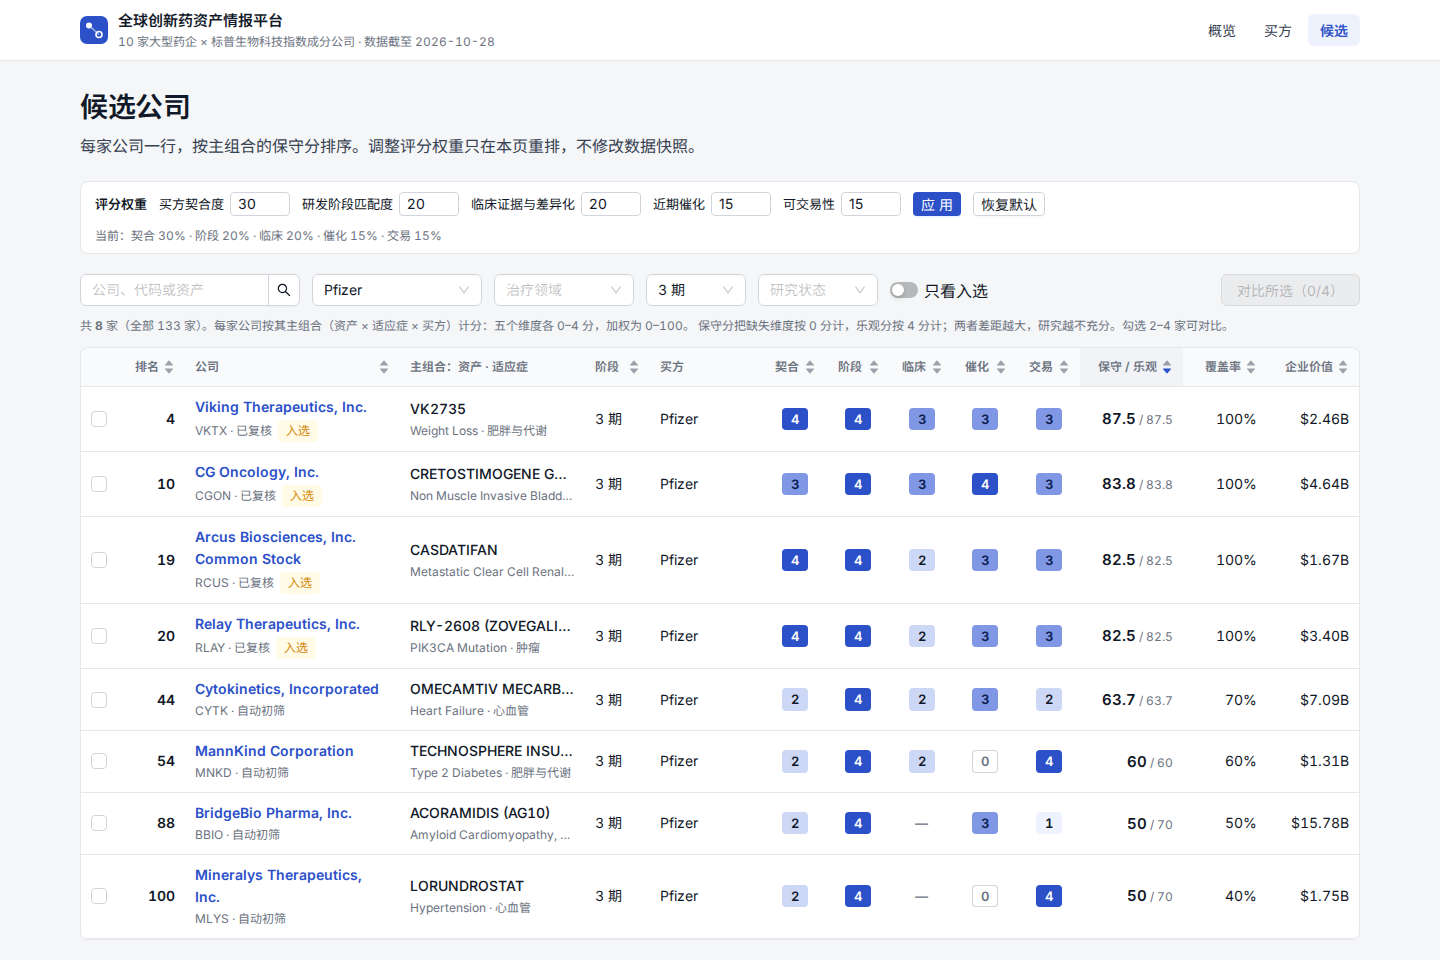
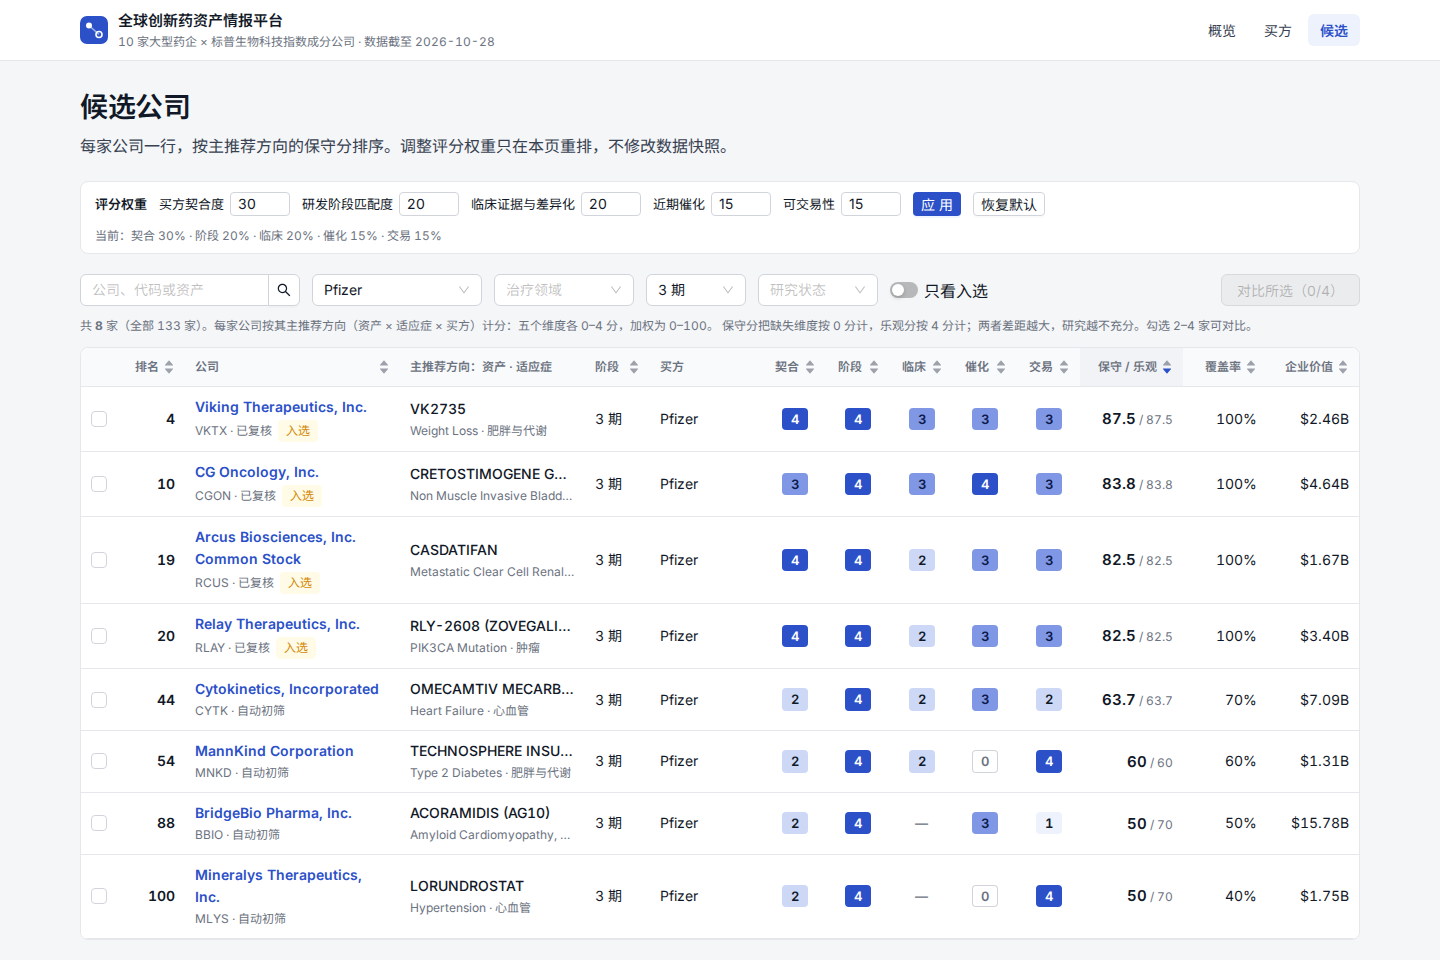
web, docs: rename 组合 to 推荐方向 and spell out asset × indication × buyer
Claude-Session: https://claude.ai/code/session_01HkPvGRTAerm7dKeWUgGh96

Changed region(s): [[0.2188, 0.3125, 0.875, 0.3438], [0.1562, 0.125, 0.5, 0.1562], [0.2812, 0.375, 0.375, 0.4062]]

diff --git a/web/src/pages/TargetDetail.tsx b/web/src/pages/TargetDetail.tsx
@@ -18,6 +18,9 @@ const REVIEW_FIELDS: [keyof Recommendation, string][] = [
   ['funding_flag', '资金状况'],
 ]
 
+// One recommendation direction: asset × indication × buyer.
+const direction = (r: Recommendation) => `${r.asset ?? '—'} × ${r.indication ?? '—'} × ${r.buyer ?? '—'}`
+
 // Key facts beside the thesis: the numbers a reader checks first.
 function Facts({ r }: { r: Recommendation }) {
   const s = r.sources
@@ -132,7 +135,7 @@ function View({ d }: { d: Detail }) {
             {t.excluded && <Tag color="red">已排除</Tag>}
             {primary && (
               <span>
-                主组合保守分 <b className="figure" style={{ color: 'var(--ink)' }}>{primary.conservative}</b> / 乐观分 {primary.optimistic} ·
+                主推荐方向：保守分 <b className="figure" style={{ color: 'var(--ink)' }}>{primary.conservative}</b> / 乐观分 {primary.optimistic} ·
                 覆盖率 {Math.round(primary.coverage * 100)}% · {label(RESEARCH_STATUS, primary.research_status)}
               </span>
             )}
@@ -150,15 +153,21 @@ function View({ d }: { d: Detail }) {
       )}
 
       {primary && (
-        <Card size="small" title={primary.is_primary ? '主组合复核结论' : '组合'}>
+        <Card size="small" title={`${primary.is_primary ? '主推荐方向' : '推荐方向'}：${direction(primary)}`}>
+          <p className="note">推荐方向 = 资产 × 适应症 × 买方。公司的分数与排名按主推荐方向计算。</p>
           <RecommendationView r={primary} />
           {others.length > 0 && (
-            <Collapse style={{ marginTop: 12 }} size="small"
-              items={others.map((r, i) => ({
-                key: i,
-                label: `其他组合：${r.asset ?? '—'} · ${r.indication ?? '—'} · ${r.buyer ?? '—'}（保守分 ${r.conservative}）`,
-                children: <RecommendationView r={r} />,
-              }))} />
+            <div style={{ marginTop: 24 }}>
+              <b style={{ fontSize: 15 }}>其他可能方向</b>
+              <span className="sub" style={{ marginLeft: 10 }}>不计入公司分数；点开查看各自的评分与依据</span>
+              <Collapse style={{ marginTop: 10 }} size="small"
+                items={others.map((r, i) => ({
+                  key: i,
+                  label: direction(r),
+                  extra: <span className="sub">保守分 <b className="figure" style={{ color: 'var(--ink)' }}>{r.conservative}</b></span>,
+                  children: <RecommendationView r={r} />,
+                }))} />
+            </div>
           )}
         </Card>
       )}

diff --git a/web/src/pages/Targets.tsx b/web/src/pages/Targets.tsx
@@ -73,7 +73,7 @@ function List({ items }: { items: ShortlistItem[] }) {
         </Button>
       </div>
       <p className="note">
-        共 <b>{rows.length}</b> 家（全部 {items.length} 家）。每家公司按其主组合（资产 × 适应症 × 买方）计分：五个维度各 0–4 分，加权为 0–100。
+        共 <b>{rows.length}</b> 家（全部 {items.length} 家）。每家公司按其主推荐方向（资产 × 适应症 × 买方）计分：五个维度各 0–4 分，加权为 0–100。
         保守分把缺失维度按 0 分计，乐观分按 4 分计；两者差距越大，研究越不充分。勾选 2–4 家可对比。
       </p>
       <Table
@@ -107,7 +107,7 @@ function List({ items }: { items: ShortlistItem[] }) {
             ),
           },
           {
-            title: '主组合：资产 · 适应症',
+            title: '主推荐方向：资产 · 适应症',
             width: 180,
             render: (_, r) => (
               <div style={{ display: 'grid', gap: 2, minWidth: 0 }}>
@@ -161,7 +161,7 @@ export default function Targets() {
     <>
       <PageHead
         title="候选公司"
-        lead="每家公司一行，按主组合的保守分排序。调整评分权重只在本页重排，不修改数据快照。"
+        lead="每家公司一行，按主推荐方向的保守分排序。调整评分权重只在本页重排，不修改数据快照。"
       />
       <div className="toolbar" style={{ padding: '10px 14px', background: 'var(--panel)', border: '1px solid var(--line)', borderRadius: 8, marginBottom: 20 }}>
         <b style={{ fontSize: 13 }}>评分权重</b>

diff --git a/web/src/pages/Buyers.tsx b/web/src/pages/Buyers.tsx
@@ -34,10 +34,10 @@ export default function Buyers() {
               { title: '代码', dataIndex: 'ticker', width: 90 },
               { title: '偏好条目', dataIndex: 'preferences', align: 'right', width: 110, render: (v) => <span className="figure">{v}</span> },
               {
-                title: '以其为主组合买方的候选公司',
+                title: '主推荐方向指向该买方的候选公司',
                 dataIndex: 'primary_targets',
                 align: 'right',
-                width: 220,
+                width: 240,
                 render: (v, b) => (
                   <Link to={`/targets?buyer=${b.ticker}`} className="figure">
                     {v}

diff --git a/web/src/pages/Compare.tsx b/web/src/pages/Compare.tsx
@@ -34,7 +34,7 @@ export default function Compare() {
   const state = useApi(() => fetchShortlist(), [])
   return (
     <>
-      <PageHead title="公司对比" lead="按默认权重比较各公司的主组合。本页链接可直接分享。" />
+      <PageHead title="公司对比" lead="按默认权重比较各公司的主推荐方向（资产 × 适应症 × 买方）。本页链接可直接分享。" />
       <Loaded state={state}>
         {(s) => {
           const items = tickers.map((t) => s.items.find((i) => i.ticker === t))

diff --git a/web/src/pages/BuyerDetail.tsx b/web/src/pages/BuyerDetail.tsx
@@ -27,7 +27,7 @@ function View({ d }: { d: Detail }) {
           <>
             <span>{b.name}</span>
             <span>画像置信度 {label(CONFIDENCE, b.confidence)}</span>
-            <Link to={`/targets?buyer=${b.ticker}`}>查看以其为主组合买方的候选公司 →</Link>
+            <Link to={`/targets?buyer=${b.ticker}`}>查看主推荐方向指向该买方的候选公司 →</Link>
           </>
         }
       />

diff --git a/web/src/pages/Overview.tsx b/web/src/pages/Overview.tsx
@@ -20,7 +20,7 @@ const ENTITY_LABELS: Record<string, string> = {
   financial_snapshot: '财务快照',
   approved_product: '获批产品',
   match: '买方×标的匹配',
-  recommendation: '资产×适应症×买方组合',
+  recommendation: '推荐方向（资产×适应症×买方）',
 }
 
 const ROUTE: [string, string, string][] = [

diff --git a/docs/scoring-rules.md b/docs/scoring-rules.md
@@ -13,12 +13,12 @@
 | 4 | 下一个重要事件是什么？ | 下一关键事件 | 近期催化 |
 | 5 | 交易有什么障碍？ | 交易障碍 | 可交易性（成本计分；权益为门槛；资金为提示） |
 
-## 2. 评分对象：推荐组合
+## 2. 评分对象：推荐方向
 
-- **推荐组合** = （公司，主推荐资产，适应症，主要买方）。五个维度全部针对同一个推荐组合打分。
-- 每家公司只取一个主组合。**公司分 = 主组合的分数。** 其他资产、其他买方的组合列在详情页，不计入公司分。这样不会出现"契合度看资产 A、证据看资产 B"拼出的高分。
+- **推荐方向** = （公司，主推荐资产，适应症，主要买方），即「资产 × 适应症 × 买方」。代码与技术规格中称 recommendation（旧称「推荐组合」）。五个维度全部针对同一个推荐方向打分。
+- 每家公司只取一个主推荐方向。**公司分 = 主推荐方向的分数。** 其他资产、其他买方的推荐方向列在详情页，不计入公司分。这样不会出现"契合度看资产 A、证据看资产 B"拼出的高分。
 - **资产**：同一药物在 CT.gov 推导管线中合并后的一条（代号、通用名、商品名视为同一资产）。**适应症**：该资产研发阶段最高的适应症；复核时可以改选，必须写理由。
-- **主组合的选择**：在候选组合中取保守分（第 4 节）最高的一个；同分时取证据覆盖率高的。复核时分析人员可以改选，必须写理由。
+- **主推荐方向的选择**：在候选方向中取保守分（第 4 节）最高的一个；同分时取证据覆盖率高的。复核时分析人员可以改选，必须写理由。
 
 ## 3. 五个维度的刻度
 
@@ -57,7 +57,7 @@
 
 ### 3.3 临床证据与差异化（20%）
 
-每个推荐组合都记录四项：**研究设计、可比性、结果、局限**。四项都写进详情页，分数按下表：
+每个推荐方向都记录四项：**研究设计、可比性、结果、局限**。四项都写进详情页，分数按下表：
 
 | 分 | 要求 |
 |---|---|
@@ -150,7 +150,7 @@
 | 状态 | 含义 |
 |---|---|
 | 自动初筛 | 只有程序从结构化数据算出的分数 |
-| 已复核 | 人工（Claude 辅助）确认了推荐组合、必需字段与来源 |
+| 已复核 | 人工（Claude 辅助）确认了推荐方向、必需字段与来源 |
 | 深度研究 | 变更 F 的 3–5 家，临床数据、催化事件、收购成本全部人工核对 |
 
 **缺失值**：没有来源的字段显示「待核实」，不填估算值。它在保守分里按 0 计，在乐观分里按 4 计。
@@ -158,8 +158,8 @@
 ## 5. 排序与入选流程
 
 1. **初筛（133 家，自动）**：按**乐观分**排序，取前 40 家左右进入复核。乐观分决定"值得研究"，避免信息少的公司在研究前就被淘汰。
-   - 人工加入：`config/scoring.toml` 的 `longlist_extra` 列出的公司也进入复核。用于主组合按保守分选中已上市产品、乐观分因此下降的公司（当前：IONS、VNDA）。已复核的公司始终留在复核池。
-2. **复核（约 40 家）**：确定推荐组合，补齐必需字段，核对资产权益，写推荐逻辑（第 7 节）。
+   - 人工加入：`config/scoring.toml` 的 `longlist_extra` 列出的公司也进入复核。用于主推荐方向按保守分选中已上市产品、乐观分因此下降的公司（当前：IONS、VNDA）。已复核的公司始终留在复核池。
+2. **复核（约 40 家）**：确定推荐方向，补齐必需字段，核对资产权益，写推荐逻辑（第 7 节）。
 3. **入选名单（20–30 家）**：按**保守分**排序。入选条件：
    - 研究状态为「已复核」或「深度研究」；
    - 资产权益不是「待核实」，也不是与推荐交易形式不兼容的「受限」；
@@ -223,7 +223,7 @@
 
 - 每个单元格都可以跳到它的声明与来源。
 - 「待核实」显示为标签，不显示为空白。
-- 详情页显示五个维度的分数与理由、其他组合、缺口清单。
+- 详情页显示五个维度的分数与理由、其他方向、缺口清单。
 - 权重写在配置文件中；修改后可以重新生成排名。
 
 ## 9. 未核验的假设

diff --git a/docs/ai-log.md b/docs/ai-log.md
@@ -44,3 +44,4 @@
 | 2026-10-31 | G Web 应用样板 | Claude Code (Opus 5.5) 编写接口与页面；Playwright（无头 Chromium）走查截图 | 新增买方、公司、试验、来源只读接口，随值返回来源声明；前端改为多页面（买方画像、候选筛选与对比、公司详情、试验、来源原文并标出片段） | 13 个接口测试（合成数据 + 已提交快照中的 VKTX / RGNX）；`npm run build` 类型检查与 oxlint；按演示主线走查 6 项能力，截图存 `docs/screenshots/`，浏览器控制台无报错；来源页标出的片段与声明引用一致 | 发现：最大公司（INCY）详情约 0.9 MB，主要是管线适应症的阶段声明，已加 gzip（约 70 KB）；部分 CT.gov 推导的适应症没有治疗领域，页面显示「未归类」；无头浏览器缺中文字体，截图时临时加载本机字体，不影响用户浏览器 |
 | 2026-10-31 | G 视觉改版 | Claude Code (Opus 5.5) 改样式与布局；Playwright（无头 Chromium）1440 / 390 宽度截图检查 | 按用户评审意见：顶栏与内容对齐、候选列表合并列去掉横向滚动、改为投研报告风（衬线标题、细线分节、0–4 分色阶）。检查：各页 1440 宽度下页面与表格均无横向滚动，390 宽度下页面无横向滚动；演示走查通过，「Pfizer + 3 期」仍为 8 行，RGNX 引用片段仍被标出。发现：自写说明里把乐观分写成「缺失维度不计」，对照 `docs/scoring-rules.md` 第 132 行改为「按 4 分计」。 |
 | 2026-11-01 | G 视觉改版第二轮 | Claude Code (Opus 5.5) 改样式、布局与长文本排版；Playwright（无头 Chromium）1440 / 390 宽度截图检查 | 按用户选择改为无衬线、冷色调的数据产品风格；公司详情复核结论改为「论点 + 要点卡」两栏；长文本按句分段、原文引用成块、来源 ID 变链接、关键数字加粗（只改显示）。检查：来源 ID 识别规则对快照全部长文本字段跑了一遍，649 处全部对上已登记来源；首版规则误把药物代码 ABBV-400 与单词 FDA-approved 识别为来源，已收紧规则。各页 1440 宽度无横向滚动，演示走查通过（Pfizer + 3 期 8 行，RGNX 片段标出）。 |
+| 2026-11-01 | G 用语调整 | Claude Code (Opus 5.5) | 按用户评审改两处页面用语：「两句话论点」改为「推荐逻辑」（加一行说明两句话的内容）；「主组合 / 其他组合」改为「主推荐方向 / 其他可能方向」，标题写明「资产 × 适应症 × 买方」，并注明公司分数只按主推荐方向计算。`docs/scoring-rules.md`、`docs/plan.md` 与 `web-app` 变更文档同步改名。检查：构建与演示走查通过。未改：快照内的声明说明与缺口原因文字、已归档的主规格，仍用旧称。 |

diff --git a/openspec/changes/web-app/design.md b/openspec/changes/web-app/design.md
@@ -3,7 +3,7 @@
 - 快照是只读 SQLite（`data/processed/intel.db`），由 `intel build` 生成；应用以只读连接打开（`app-runtime`）。
 - 业务值在实体表的类型化列中；来源在 `claim`（`entity_type, entity_id, field`）与 `source`。`entity_type` 等于表名，`entity_id` 为主键字符串。
 - 现有 API：`/api/health`、`/api/meta`、`/api/shortlist`（`src/intel/api.py`）。前端：Vite + React 19 + Ant Design 6，只有一个概览页，没有路由。
-- 数据量：候选 149 家（主组合 133 条）、试验 3205 项（单家最多 288 项）、声明约 6.8 万条。来源 3891 条，其中有存档文本（`.txt`）的只有文档抽取用的十几份；其他来源的本地路径是 JSON / xlsx 原始响应，或没有本地文件（CT.gov）。
+- 数据量：候选 149 家（主推荐方向 133 条）、试验 3205 项（单家最多 288 项）、声明约 6.8 万条。来源 3891 条，其中有存档文本（`.txt`）的只有文档抽取用的十几份；其他来源的本地路径是 JSON / xlsx 原始响应，或没有本地文件（CT.gov）。
 
 ## Goals / Non-Goals
 
@@ -26,7 +26,7 @@
 
 - `GET /api/buyers`：买方列表（代码、名称、中文名、偏好行数、最佳匹配公司数）。
 - `GET /api/buyers/{ticker}`：画像字段、偏好行、财务、专利到期产品、匹配分前 15 的候选（Match）。
-- `GET /api/targets/{ticker}`：公司、入选理由、主组合与其他组合的复核结论、管线（药物 → 适应症）、获批产品、催化事件、最新财务快照、试验摘要、全部试验结果。
+- `GET /api/targets/{ticker}`：公司、入选理由、主推荐方向与其他方向的复核结论、管线（药物 → 适应症）、获批产品、催化事件、最新财务快照、试验摘要、全部试验结果。
 - `GET /api/trials/{nct}`：试验全部字段、所属公司与适应症、结果。
 - `GET /api/sources/{source_id}`：来源元信息、存档文本是否可读、引用该来源的声明数。
 - `GET /api/sources/{source_id}/text`：存档文本（纯文本）。
@@ -51,7 +51,7 @@
 
 ### 6. 候选列表在前端筛选与对比
 
-`/api/shortlist` 一次返回全部主组合（133 行），筛选、搜索、排序在前端做；调权重时重新请求接口。对比最多 4 家，状态写进 URL 查询参数，可分享。
+`/api/shortlist` 一次返回全部主推荐方向（133 行），筛选、搜索、排序在前端做；调权重时重新请求接口。对比最多 4 家，状态写进 URL 查询参数，可分享。
 
 ### 7. 视觉：简洁的数据产品风格
 

diff --git a/openspec/changes/web-app/specs/app-views/spec.md b/openspec/changes/web-app/specs/app-views/spec.md
@@ -27,18 +27,18 @@
 - **THEN** 接口返回 HTTP 404
 
 ### Requirement: Candidate browsing and comparison
-候选列表 SHALL 显示每家公司的主组合与分数，并支持：按买方、治疗领域、研发阶段、研究状态、是否入选筛选；按名称或代码搜索；按任一分数列排序；调整五个维度的权重后重新排序；勾选 2–4 家公司并排对比主组合、各维度分数、下一事件、企业价值与资产权益。
+候选列表 SHALL 显示每家公司的主推荐方向与分数，并支持：按买方、治疗领域、研发阶段、研究状态、是否入选筛选；按名称或代码搜索；按任一分数列排序；调整五个维度的权重后重新排序；勾选 2–4 家公司并排对比主推荐方向、各维度分数、下一事件、企业价值与资产权益。
 
 #### Scenario: Filter by buyer and stage
 - **WHEN** 用户在候选列表选择买方 Pfizer 与阶段「3 期」
-- **THEN** 列表只显示主组合买方为 Pfizer 且阶段为 3 期的公司
+- **THEN** 列表只显示主推荐方向买方为 Pfizer 且阶段为 3 期的公司
 
 #### Scenario: Compare companies
 - **WHEN** 用户勾选 3 家公司并选择对比
-- **THEN** 对比视图并排显示这 3 家的主组合、各维度分数与保守分 / 乐观分
+- **THEN** 对比视图并排显示这 3 家的主推荐方向、各维度分数与保守分 / 乐观分
 
 ### Requirement: Company pipeline view
-公司详情 SHALL 显示：公司基本信息与是否入选、入选理由；主组合的复核结论（各维度分数与理由、研究设计、可比性、结果、局限、下一事件、资产权益、两句话论点）；管线（药物、作用机制、技术类型，每个适应症的治疗领域与研发阶段）；获批产品；催化事件；最新财务快照（现金、债务、经营现金流、可支撑月数、市值、收购成本区间）。阶段 SHALL 区分事实与推断（来源声明的类型）。
+公司详情 SHALL 显示：公司基本信息与是否入选、入选理由；主推荐方向的复核结论（各维度分数与理由、研究设计、可比性、结果、局限、下一事件、资产权益、两句话论点）；管线（药物、作用机制、技术类型，每个适应症的治疗领域与研发阶段）；获批产品；催化事件；最新财务快照（现金、债务、经营现金流、可支撑月数、市值、收购成本区间）。阶段 SHALL 区分事实与推断（来源声明的类型）。
 
 #### Scenario: Deep-dive company
 - **WHEN** 打开 VKTX 的公司详情

diff --git a/openspec/changes/web-app/tasks.md b/openspec/changes/web-app/tasks.md
@@ -4,7 +4,7 @@
 
 - [x] 1.1 新建 `src/intel/views.py`：声明批量取回与按字段分组（`ClaimOut` 含来源元信息）；测试：同一请求内多类实体的声明各归其位，没有声明的字段为空列表（`uv run pytest tests/test_views.py`）
 - [x] 1.2 买方列表与详情接口（偏好行、财务、专利到期产品、匹配前 15）；测试：详情含偏好与来源，未知代码 404
-- [x] 1.3 公司详情接口（入选理由、各组合复核结论、管线 → 适应症、获批产品、催化事件、最新财务、试验摘要、全部结果）；测试：用构建出的快照取 VKTX，含 VK2735、催化事件与 LLM 声明的片段；未知代码 404
+- [x] 1.3 公司详情接口（入选理由、各推荐方向复核结论、管线 → 适应症、获批产品、催化事件、最新财务、试验摘要、全部结果）；测试：用构建出的快照取 VKTX，含 VK2735、催化事件与 LLM 声明的片段；未知代码 404
 - [x] 1.4 试验详情接口与来源接口（元信息、存档文本；路径不在 `data/raw/` 内或不是 `.txt` 时 404）；测试：存档文本可读、路径越界被拒、未知 ID 404
 - [x] 1.5 候选名单增加治疗领域；非 `/api` 路径返回前端首页、未知 `/api` 路径 404；测试：深链接返回首页、未知 API 404、原有名单测试通过
 

diff --git a/docs/plan.md b/docs/plan.md
@@ -66,9 +66,9 @@ erDiagram
 
 大型商业化公司（如 INCY、BMRN、NBIX、UTHR、EXEL）**不排除**，在评分中落入"高收购成本"档，由买方体量决定可行性。
 
-**Stage 1：推荐组合评分（全部标为推断）**——细则见 [`docs/scoring-rules.md`](scoring-rules.md)
+**Stage 1：推荐方向评分（全部标为推断）**——细则见 [`docs/scoring-rules.md`](scoring-rules.md)
 
-- **评分对象**：每家公司选一个推荐组合（主推荐资产 × 适应症 × 主要买方）。五个维度都对同一组合打分；公司分 = 主组合分。其他组合放详情页，不计分。
+- **评分对象**：每家公司选一个推荐方向（主推荐资产 × 适应症 × 主要买方）。五个维度都对同一推荐方向打分；公司分 = 主推荐方向分。其他方向放详情页，不计分。
 - **五个维度**（0–4 分，每档写明证据要求）：
 
 | 维度 | 评什么 | 初始权重 |
